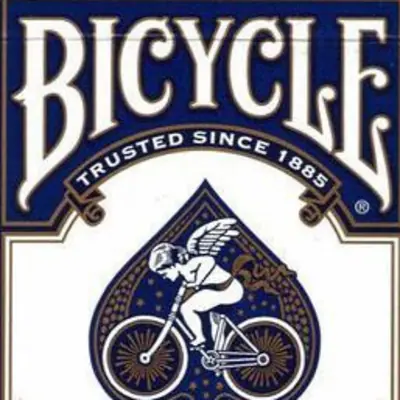
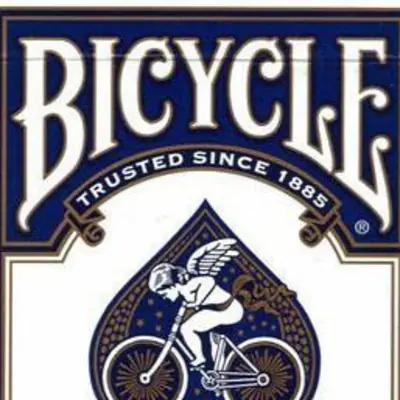
Show every cover's whole title instead of cropping into it
Cropping each box to a square cut the title off the wide and tall ones
(Exploding Kittens, Poetry for Neanderthals, Throw Throw Burrito, Taco
Cat Goat Cheese Pizza), the top of Taco vs Burrito's and UNO's, and a
head off Pandemic's cover. The art script gains a fit mode: trim the
scan's white margins and centre the whole box in the square on bands of
its own edge colour (or a set colour where the edge is striped or
shaded). The others reframe so the title stays in, and Cranium's
flattened photo is recropped so its logo sits in the middle.

Claude-Session: https://claude.ai/code/session_016JDDuz1wzeXRakbKKa6uEy

diff --git a/scripts/fetch-collection-art.ts b/scripts/fetch-collection-art.ts
@@ -11,7 +11,8 @@
 // come from its id, and a game's main image from the game's id (`bgg`).
 // The main image is usually the front cover scan, but not always, so
 // COVERS below pins the image chosen for each game, picked by eye from the
-// item's gallery, with how to frame it. A game missing from COVERS falls
+// item's gallery, with how to frame it: a square cut from it, or, where no
+// square keeps the whole title, the whole cover on bands of its own colour. A game missing from COVERS falls
 // back to its main image; a game marked `keep` is left as it is on disk.
 import { execFileSync } from 'node:child_process';
 import { mkdtemp, readFile, rm, writeFile } from 'node:fs/promises';
@@ -35,6 +36,13 @@ interface Cover {
    * title along the top survives.
    */
   focus?: number;
+  /**
+   * Show the whole cover instead, trimmed of white margins and centred in the
+   * square, the bands either side filled with the colour along that edge
+   * (or `pad`, where the edge is striped or shaded).
+   */
+  fit?: boolean;
+  pad?: string;
 }
 type Entry = Cover | { keep: string };
 
@@ -43,32 +51,32 @@ const COVERS: Record<string, Entry> = {
   'analyze-me': { keep: 'BGG only has the 2011 tin; this edition\'s box front, flattened from a product photo' },
   azul: { image: 6973671 },
   bananagrams: { image: 480795, box: [0.515, 0.13, 0.475, 0.85], focus: 0 }, // no box: the front of the pouch's tag
-  'card-deck': { image: 1128756, box: [0.08, 0.055, 0.84, 0.9], focus: 0 }, // a generic deck: a Bicycle tuck box's front
+  'card-deck': { image: 1128756, box: [0.08, 0.025, 0.84, 0.93], focus: 0 }, // a generic deck: a Bicycle tuck box's front
   'cards-against-humanity': { image: 2909692, focus: 0 },
   'caroling-charades': { keep: 'not on BoardGameGeek; the publisher\'s flat cover art' },
   catan: { image: 9156909 },
   codenames: { image: 8907965, focus: 0.1 },
   cranium: { keep: 'BGG lacks the 25th anniversary edition; its box front, flattened from a product photo' },
   dominion: { image: 3187001 },
-  'exploding-kittens': { image: 2691976, focus: 0 }, // a wide box: keep the start of the title
+  'exploding-kittens': { image: 2691976, fit: true }, // a wide box
   'far-out-questions': { keep: 'not on BoardGameGeek; the publisher\'s flat cover art' },
   'for-the-girls': { keep: 'BGG only has the German edition; the English box front, flattened from a product photo' },
   'hogwarts-battle': { image: 3518231 },
   'love-letter': { image: 4766499, focus: 0.85 }, // sold in a clamshell: its front, around the title
   mysterium: { image: 8625343 },
   'one-night-werewolf': { image: 8783294 },
-  pandemic: { image: 1534148, focus: 0.5 }, // the title sits low
-  'poetry-for-neanderthals': { image: 5702797, focus: 0 }, // a wide box: keep the start of the title
+  pandemic: { image: 1534148, focus: 0.3 }, // the heads up top, the title low
+  'poetry-for-neanderthals': { image: 5702797, fit: true, pad: '#e3e2e7' }, // a wide box; its ground, not its shaded rim
   risk: { image: 4916782, focus: 0 },
   suspicion: { image: 3109861, focus: 0.8 }, // the title badge sits at the right
   taboo: { image: 8361187, box: [0.012, 0.065, 0.976, 0.925] }, // below the lid's top edge
-  'taco-goat-cheese-pizza': { image: 7192024 },
-  'taco-vs-burrito': { image: 8691394 }, // the 5th anniversary edition
+  'taco-goat-cheese-pizza': { image: 7192024, fit: true, pad: '#e2e05a' }, // the title runs top to bottom; the stripes' yellow
+  'taco-vs-burrito': { image: 8691394, focus: 0 }, // the 5th anniversary edition
   'these-cards-will-get-you-drunk': { keep: 'not on BoardGameGeek; its box front, flattened from a product photo' },
-  'throw-throw-burrito': { image: 7073068 },
+  'throw-throw-burrito': { image: 7073068, fit: true, pad: '#ebe8d4' }, // its cream ground, not its shaded rim
   'ticket-to-ride': { image: 8937637 },
   'truth-or-dare-tower': { keep: 'not on BoardGameGeek; the publisher\'s flat cover art' },
-  uno: { image: 8204165 },
+  uno: { image: 8204165, focus: 0 },
 };
 
 // The games are data literals; read them straight off the source rather
@@ -155,22 +163,41 @@ try {
     const raw = join(work, `${game.slug}.src`);
     await writeFile(raw, Buffer.from(await file.arrayBuffer()));
 
-    // Cut the box, then the largest square inside it at the focus.
+    // Cut the box, then the largest square inside it at the focus, or fit
+    // the whole box in the square.
     const [w, h] = execFileSync(magick, [`${raw}[0]`, '-auto-orient', '-format', '%w %h', 'info:'], { encoding: 'utf8' })
       .split(' ').map(Number);
     const [bl, bt, bw, bh] = cover.box ?? [0, 0, 1, 1];
     const box = { x: Math.round(bl * w), y: Math.round(bt * h), w: Math.round(bw * w), h: Math.round(bh * h) };
-    const side = Math.min(box.w, box.h);
-    const focus = cover.focus ?? (box.h > box.w * 1.15 ? 0.2 : 0.5);
-    const x = box.x + Math.round((box.w - side) * focus);
-    const y = box.y + Math.round((box.h - side) * focus);
     const out = `public${game.img}`;
-    execFileSync(magick, [
-      `${raw}[0]`, '-auto-orient', '-colorspace', 'sRGB',
-      '-crop', `${side}x${side}+${x}+${y}`, '+repage',
-      '-resize', `${SIZE}x${SIZE}!`, '-strip',
-      '-quality', QUALITY, '-define', 'webp:method=6', out,
-    ]);
+    const load = [`${raw}[0]`, '-auto-orient', '-colorspace', 'sRGB', '-crop', `${box.w}x${box.h}+${box.x}+${box.y}`, '+repage'];
+    const save = ['-strip', '-quality', QUALITY, '-define', 'webp:method=6', out];
+    if (cover.fit) {
+      const trimmed = join(work, `${game.slug}.png`);
+      // A white border first makes the trim take off white margins only.
+      execFileSync(magick, [...load, '-bordercolor', 'white', '-border', '1', '-fuzz', '4%', '-trim', '+repage', trimmed]);
+      const [tw, th] = execFileSync(magick, [trimmed, '-format', '%w %h', 'info:'], { encoding: 'utf8' }).split(' ').map(Number);
+      const wide = tw >= th;
+      // Each band takes the mean colour of a 3 px strip just inside its
+      // edge, clear of a scan's outline or shadow.
+      const inset = Math.round((wide ? th : tw) * 0.02);
+      const edge = (gravity: string) => cover.pad ?? execFileSync(magick, [
+        trimmed, '-gravity', gravity, '-crop', wide ? `${tw}x3+0+${inset}` : `3x${th}+${inset}+0`, '+repage',
+        '-scale', '1x1!', '-format', '%[pixel:p{0,0}]', 'info:',
+      ], { encoding: 'utf8' });
+      const half = wide ? `${SIZE}x${SIZE / 2}` : `${SIZE / 2}x${SIZE}`;
+      execFileSync(magick, [
+        '-size', half, `xc:${edge(wide ? 'north' : 'west')}`,
+        '-size', half, `xc:${edge(wide ? 'south' : 'east')}`, wide ? '-append' : '+append',
+        '(', trimmed, '-resize', `${SIZE}x${SIZE}`, ')', '-gravity', 'center', '-composite', ...save,
+      ]);
+    } else {
+      const side = Math.min(box.w, box.h);
+      const focus = cover.focus ?? (box.h > box.w * 1.15 ? 0.2 : 0.5);
+      const x = Math.round((box.w - side) * focus);
+      const y = Math.round((box.h - side) * focus);
+      execFileSync(magick, [...load, '-crop', `${side}x${side}+${x}+${y}`, '+repage', '-resize', `${SIZE}x${SIZE}!`, ...save]);
+    }
     written++;
     console.log(`${game.name}: image ${cover.image} (${w}x${h}) -> ${out}`);
   }

diff --git a/src/utils/precache.ts b/src/utils/precache.ts
@@ -23,7 +23,7 @@ export const PDFJS_DECODERS: readonly string[] = [
 /**
  * The wishlist's box art, under public/ (`npm run wishlist-art`): not saved
  * at install, since its 39 files come to 608 KB, more than the collection's
- * 30 (549 KB), for a list behind the Want toggle that a visitor may never
+ * 30 (539 KB), for a list behind the Want toggle that a visitor may never
  * open. The service worker saves each one as it is fetched (src/sw/shell.ts,
  * marked with the build's hash of the file, which vite.config.ts writes in),
  * so an update drops a copy whose file has changed or gone.

diff --git a/CLAUDE.md b/CLAUDE.md
@@ -444,7 +444,7 @@ no-op when `$CI` is set. CI re-runs everything on `ubuntu-latest`.
   fallbacks, standard fonts, licences) goes to the runtime
   `gameroom-assets` cache if it is ever fetched, and each update clears it
   with the old code. The wishlist's box art (`WISHLIST_ART_DIR`, 39 files,
-  608 KB: more than the collection's 30 at 549 KB, and 16% on top of the
+  608 KB: more than the collection's 30 at 539 KB, and 16% on top of the
   3.9 MB install, for a list behind the Want toggle many never open) goes
   there too, each file as a card draws it (lazily, so a card never
   scrolled to online has no art offline), marked with the build's hash of
